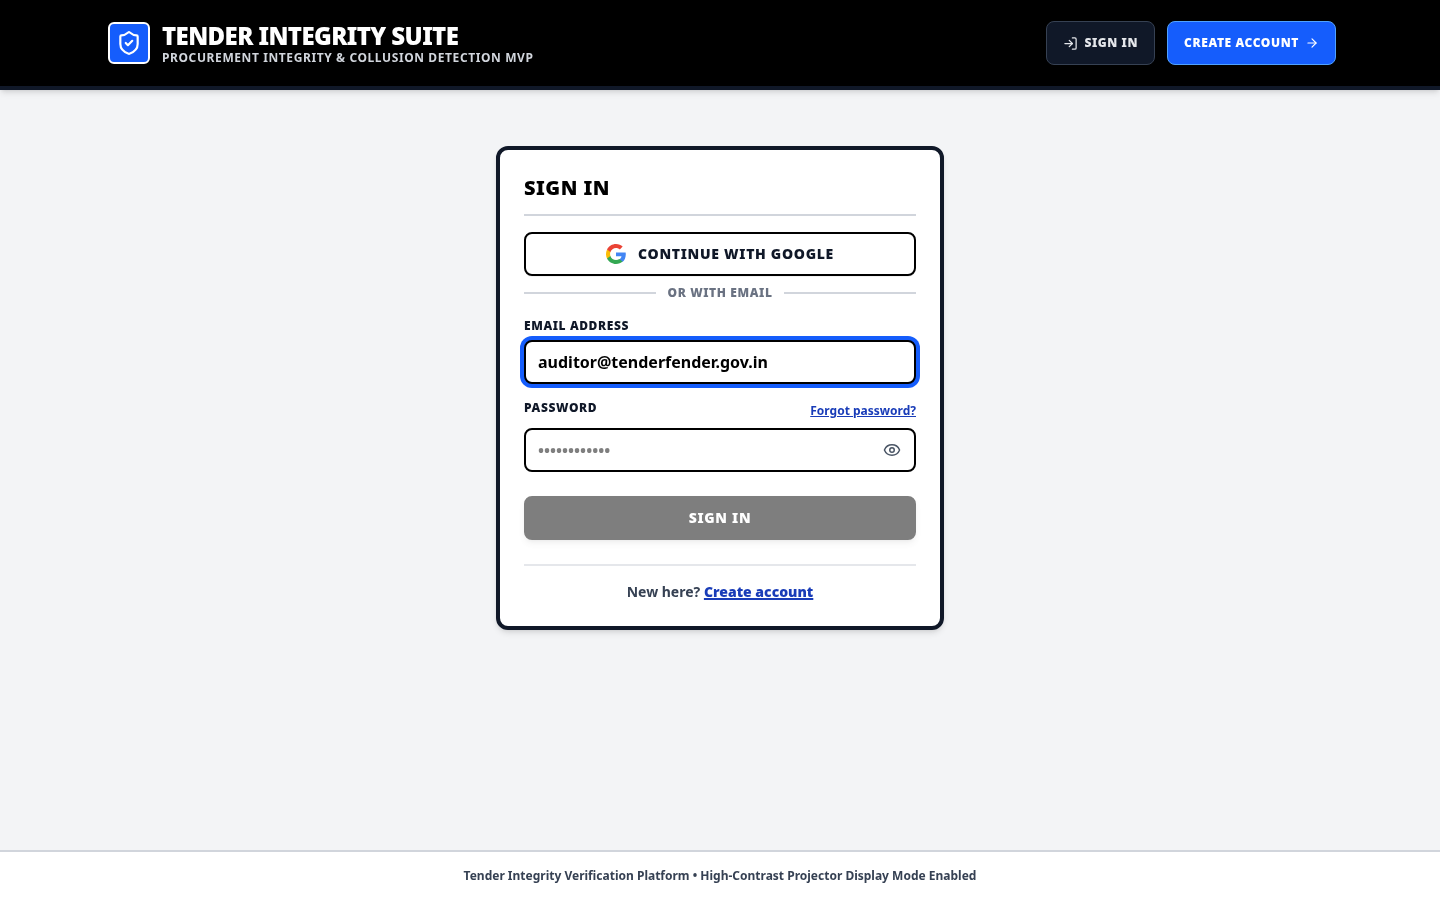
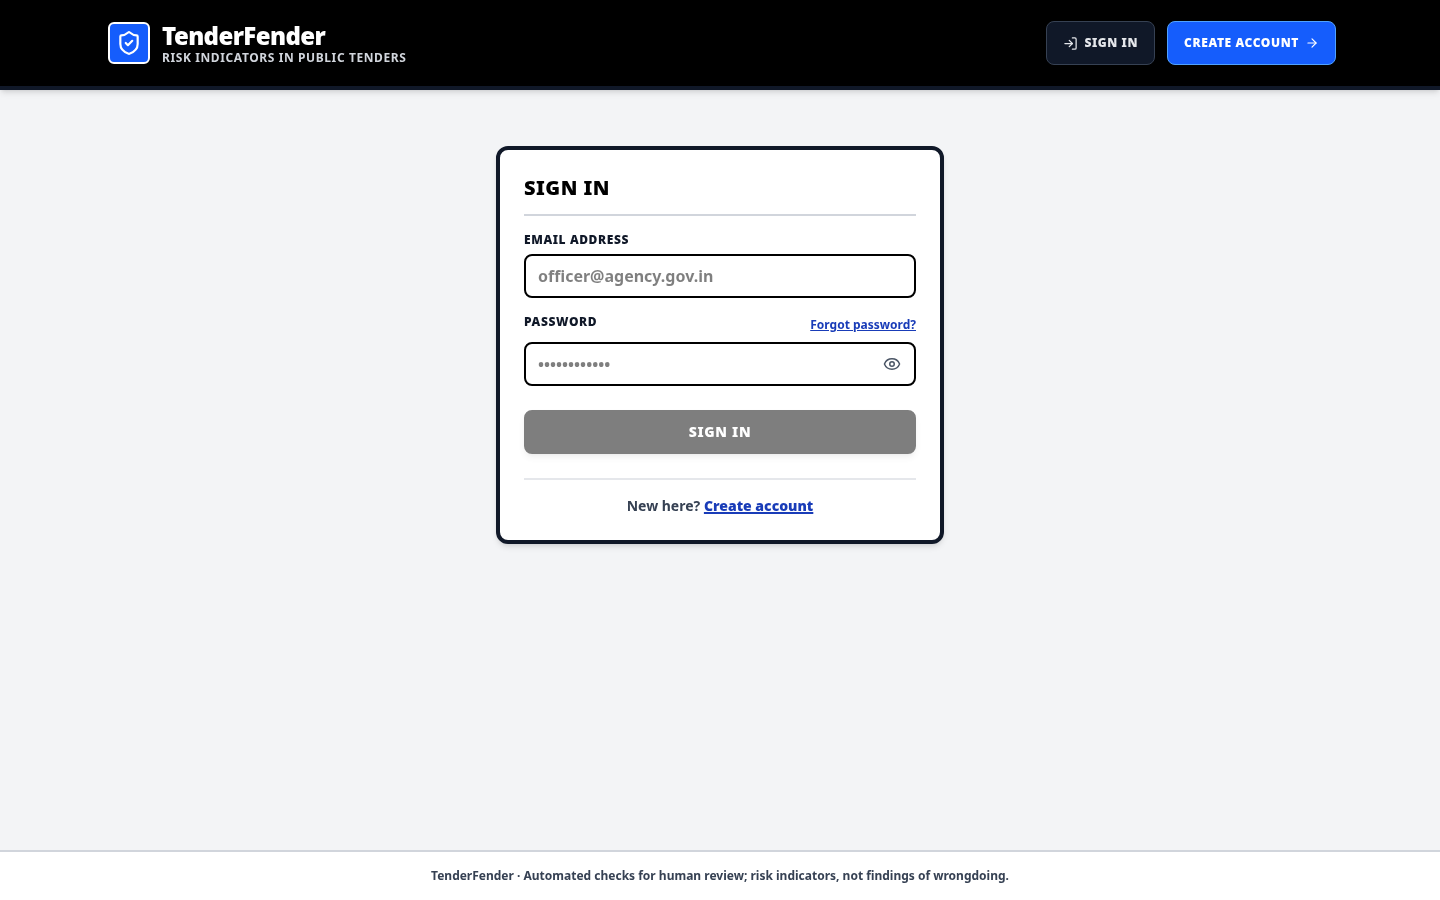
auth flow: sign-in for atom confirm/reject, read-only demo clauses, TenderFender branding, real screenshots

diff --git a/ui/src/App.tsx b/ui/src/App.tsx
@@ -50,11 +50,11 @@ function HeaderNav() {
             <ShieldCheck size={26} className="text-white" />
           </div>
           <div className="flex flex-col">
-            <span className="text-lg sm:text-2xl font-black tracking-tight text-white uppercase group-hover:text-blue-300 transition-colors">
-              Tender Integrity Suite
+            <span className="text-xl sm:text-2xl font-black tracking-tight text-white group-hover:text-blue-300 transition-colors">
+              TenderFender
             </span>
-            <span className="text-[10px] sm:text-xs font-bold text-gray-300 tracking-wider uppercase -mt-0.5">
-              Procurement Integrity & Collusion Detection MVP
+            <span className="hidden sm:block text-xs font-bold text-gray-300 tracking-wider uppercase -mt-0.5">
+              Risk indicators in public tenders
             </span>
           </div>
         </Link>
@@ -154,13 +154,13 @@ function HeaderNav() {
             <div className="flex items-center gap-2">
               <Link
                 to="/login"
-                className="min-h-[44px] inline-flex items-center px-3 py-2 rounded bg-gray-900 text-xs font-black uppercase tracking-wider text-gray-200 border border-gray-700"
+                className="min-h-[44px] inline-flex items-center whitespace-nowrap px-3 py-2 rounded bg-gray-900 text-xs font-black uppercase tracking-wider text-gray-200 border border-gray-700"
               >
                 Sign in
               </Link>
               <Link
                 to="/signup"
-                className="min-h-[44px] inline-flex items-center px-3 py-2 rounded bg-blue-600 text-xs font-black uppercase tracking-wider text-white border border-blue-400"
+                className="min-h-[44px] inline-flex items-center whitespace-nowrap px-3 py-2 rounded bg-blue-600 text-xs font-black uppercase tracking-wider text-white border border-blue-400"
               >
                 Join
               </Link>
@@ -332,7 +332,7 @@ function App() {
 
           <footer className="bg-white border-t-2 border-gray-300 py-4 mt-auto">
             <div className="max-w-7xl mx-auto px-6 text-center text-xs font-bold text-gray-700">
-              Tender Integrity Verification Platform • High-Contrast Projector Display Mode Enabled
+              TenderFender · Automated checks for human review; risk indicators, not findings of wrongdoing.
             </div>
           </footer>
         </div>

diff --git a/ui/src/components/ClausePanel.tsx b/ui/src/components/ClausePanel.tsx
@@ -9,9 +9,11 @@ interface Props {
   atomStatus?: Record<string, AtomStatusEntry>;
   onConfirm: (atomId: string) => Promise<void>;
   onReject: (atomId: string, note: string) => Promise<void>;
+  /** Demo preview: show atom status only, no confirm/reject actions. */
+  readOnly?: boolean;
 }
 
-export default function ClausePanel({ rules, clauses, atomStatus, onConfirm, onReject }: Props) {
+export default function ClausePanel({ rules, clauses, atomStatus, onConfirm, onReject, readOnly = false }: Props) {
   const [confirming, setConfirming] = useState<string | null>(null);
   const [actionError, setActionError] = useState<string | null>(null);
 
@@ -191,7 +193,7 @@ export default function ClausePanel({ rules, clauses, atomStatus, onConfirm, onR
                       >
                         {state.status}
                       </span>
-                      <div className="flex gap-1.5">
+                      {!readOnly && <div className="flex gap-1.5">
                         <button
                           onClick={() => handleConfirm(atom.id)}
                           disabled={isThisConfirming || state.status === "confirmed"}
@@ -210,7 +212,7 @@ export default function ClausePanel({ rules, clauses, atomStatus, onConfirm, onR
                           <XCircle size={16} />
                           <span className="hidden sm:inline">Reject</span>
                         </button>
-                      </div>
+                      </div>}
                     </div>
                   </div>
                 </div>

diff --git a/ui/src/pages/Landing.tsx b/ui/src/pages/Landing.tsx
@@ -16,11 +16,11 @@ export default function Landing() {
       <section className="text-center max-w-4xl mx-auto space-y-6 pt-4 sm:pt-8">
         <div className="inline-flex items-center gap-2 px-3 py-1.5 rounded-full bg-blue-100 border border-blue-300 text-blue-900 text-xs font-black uppercase tracking-wider">
           <ShieldCheck size={16} className="text-blue-700" />
-          Procurement Integrity & Risk Analysis Platform
+          For procurement reviewers and auditors
         </div>
 
         <h1 className="text-3xl sm:text-5xl lg:text-6xl font-black text-gray-950 tracking-tight leading-tight">
-          Public Tender Verification Powered by Rule Solvers & Cited Guidelines
+          Spot risk indicators in public tenders before they become problems
         </h1>
 
         <p className="text-lg sm:text-xl font-medium text-gray-700 max-w-3xl mx-auto leading-relaxed">

diff --git a/ui/src/pages/HelpOpenRouterFree.tsx b/ui/src/pages/HelpOpenRouterFree.tsx
@@ -16,7 +16,7 @@ export default function HelpOpenRouterFree() {
         <p className="text-sm font-bold text-gray-900 mb-6 leading-relaxed">
           OpenRouter provides access to a variety of large language models with a single unified API key,
           including free community model variants with zero credit purchase required. Follow this guide to create a free key
-          and use it in Tender Integrity Suite.
+          and use it in TenderFender.
         </p>
 
         {/* 3 Steps */}

diff --git a/ui/src/pages/DemoDetail.tsx b/ui/src/pages/DemoDetail.tsx
@@ -135,6 +135,7 @@ export default function DemoDetail() {
           atomStatus={analysis.atom_status}
           onConfirm={async () => {}}
           onReject={async () => {}}
+          readOnly
         />
 
         {analysis.fused.network_check?.status === "not_applicable" ? (

diff --git a/api/main.py b/api/main.py
@@ -262,11 +262,13 @@ def _decide(tender_id: str, atom_id: str, status: str, note: str = "") -> dict[s
 
 
 @app.post("/api/tenders/{tender_id}/atoms/{atom_id}/confirm", response_model=ConfirmResponse)
-def confirm_atom(tender_id: str, atom_id: str):
+def confirm_atom(tender_id: str, atom_id: str, user: dict[str, Any] | None = Depends(optional_user)):
     """
     Persist an auditor's confirmation of one atom's formalization.
     `formalization_status` in the response is the tender-level status (confirmed only when every atom is).
     """
+    if user is None:
+        raise _unauthenticated("Sign-in required")
     result = _decide(tender_id, atom_id, "confirmed")
     return ConfirmResponse(
         tender_id=tender_id,
@@ -276,8 +278,11 @@ def confirm_atom(tender_id: str, atom_id: str):
 
 
 @app.post("/api/tenders/{tender_id}/atoms/{atom_id}/reject", response_model=RejectResponse)
-def reject_atom(tender_id: str, atom_id: str, body: RejectBody | None = None):
+def reject_atom(tender_id: str, atom_id: str, body: RejectBody | None = None,
+                user: dict[str, Any] | None = Depends(optional_user)):
     """Persist an auditor's rejection of one atom's formalization, with an optional note."""
+    if user is None:
+        raise _unauthenticated("Sign-in required")
     result = _decide(tender_id, atom_id, "rejected", body.note if body else "")
     return RejectResponse(
         tender_id=tender_id,

diff --git a/tests/api/test_api.py b/tests/api/test_api.py
@@ -11,9 +11,25 @@ from fastapi.testclient import TestClient
 # Ensure mock mode is set before importing the app
 os.environ["MOCK"] = "1"
 
+from api.auth import optional_user  # noqa: E402
 from api.main import app  # noqa: E402
 
 client = TestClient(app)
+
+
+@pytest.fixture(autouse=True)
+def _signed_in():
+    """Confirm/reject require sign-in; these tests act as a signed-in auditor."""
+    app.dependency_overrides[optional_user] = lambda: {"user_id": "test-auditor"}
+    yield
+    app.dependency_overrides.pop(optional_user, None)
+
+
+def test_confirm_and_reject_require_sign_in():
+    app.dependency_overrides.pop(optional_user, None)
+    for verb in ("confirm", "reject"):
+        resp = client.post(f"/api/tenders/T-001/atoms/CL2.1/{verb}")
+        assert resp.status_code == 401 and resp.json()["detail"]["code"] == "unauthenticated"
 
 
 # ── Health ───────────────────────────────────────────────────────────────────

diff --git a/tests/test_pipeline_real.py b/tests/test_pipeline_real.py
@@ -122,8 +122,13 @@ def test_end_to_end_review_export_pipeline_and_api(root, monkeypatch):
     monkeypatch.setenv("CONFIRMATIONS_PATH", root.env["CONFIRMATIONS_PATH"])
     monkeypatch.setattr(loaders, "_project_root", lambda: root.tmp)
     client = TestClient(app)
-    for atom_id in ("CL1.1", "CL3.1"):
-        assert client.post(f"/api/tenders/RT-001/atoms/{atom_id}/confirm").status_code == 200
+    assert client.post("/api/tenders/RT-001/atoms/CL1.1/confirm").status_code == 401  # sign-in required
+    app.dependency_overrides[auth.optional_user] = lambda: {"user_id": "test-auditor"}
+    try:
+        for atom_id in ("CL1.1", "CL3.1"):
+            assert client.post(f"/api/tenders/RT-001/atoms/{atom_id}/confirm").status_code == 200
+    finally:
+        app.dependency_overrides.pop(auth.optional_user, None)
 
     # 2. export the confirmed IR
     exp = subprocess.run([sys.executable, str(REPO / "scripts" / "export_confirmed_ir.py"), "RT-001",
